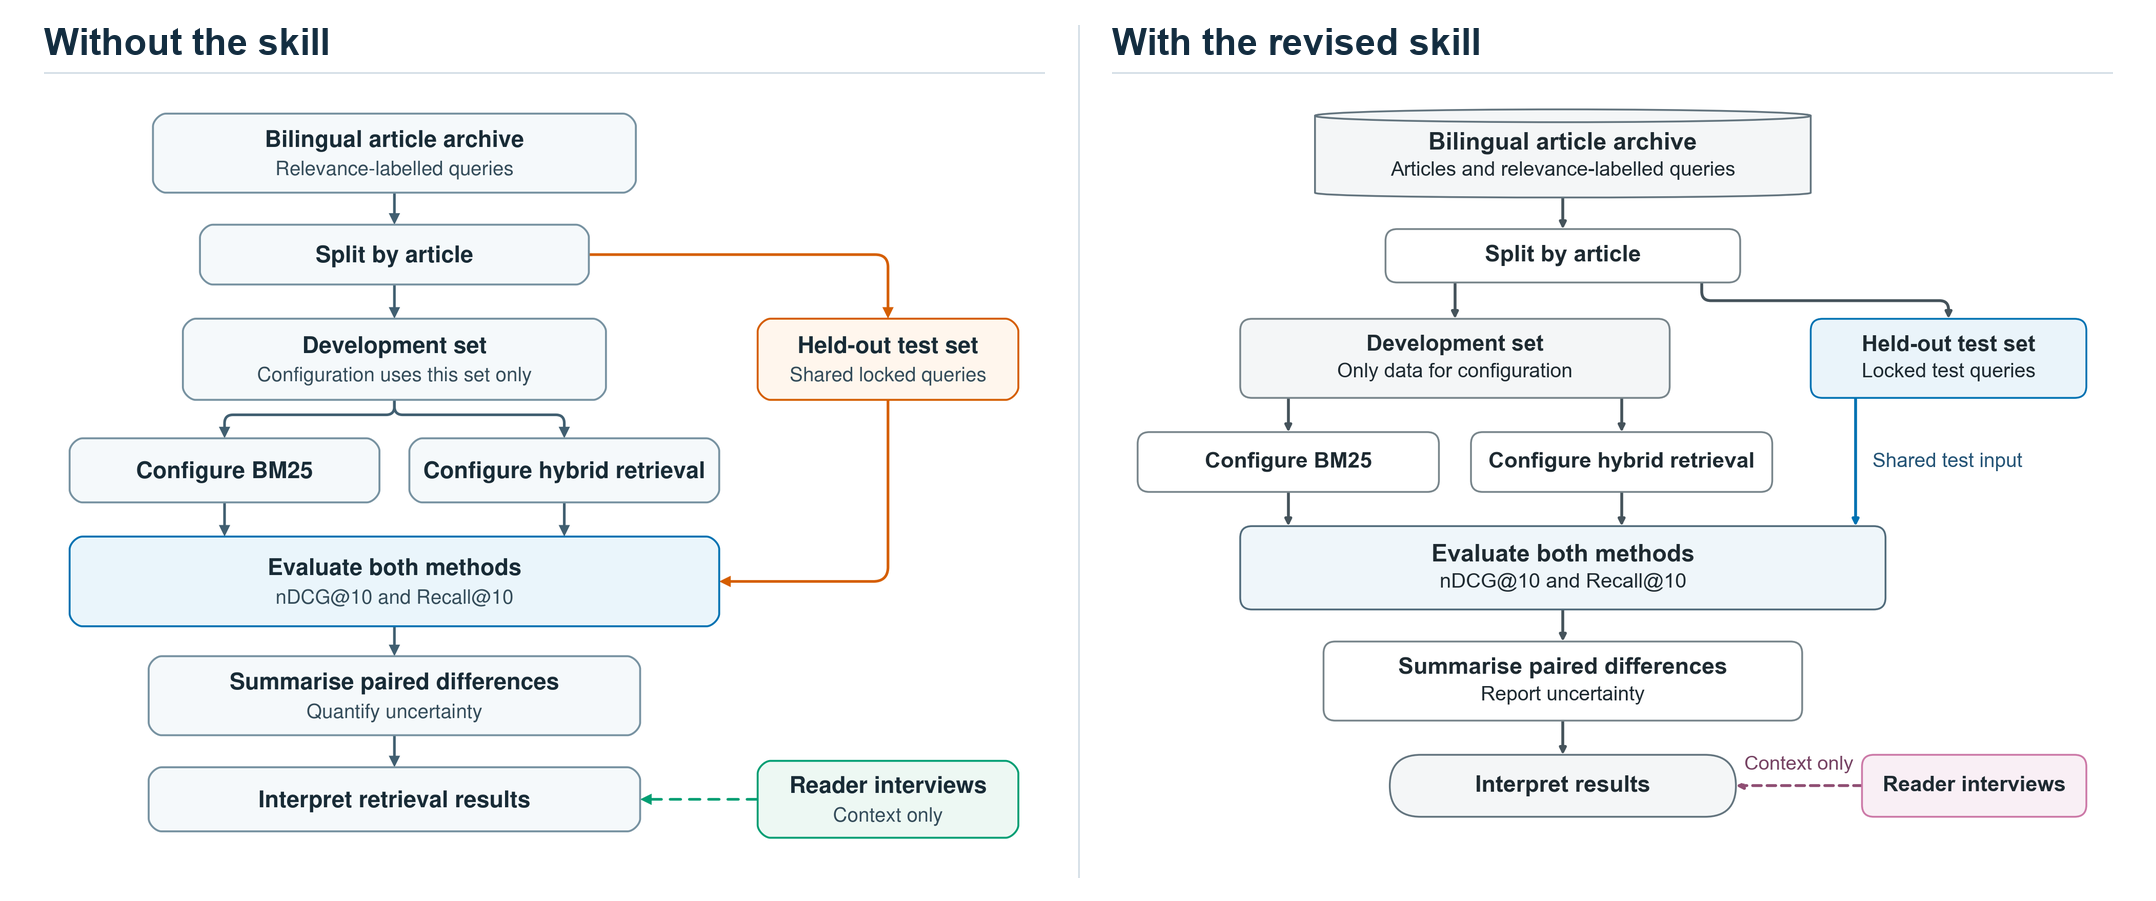
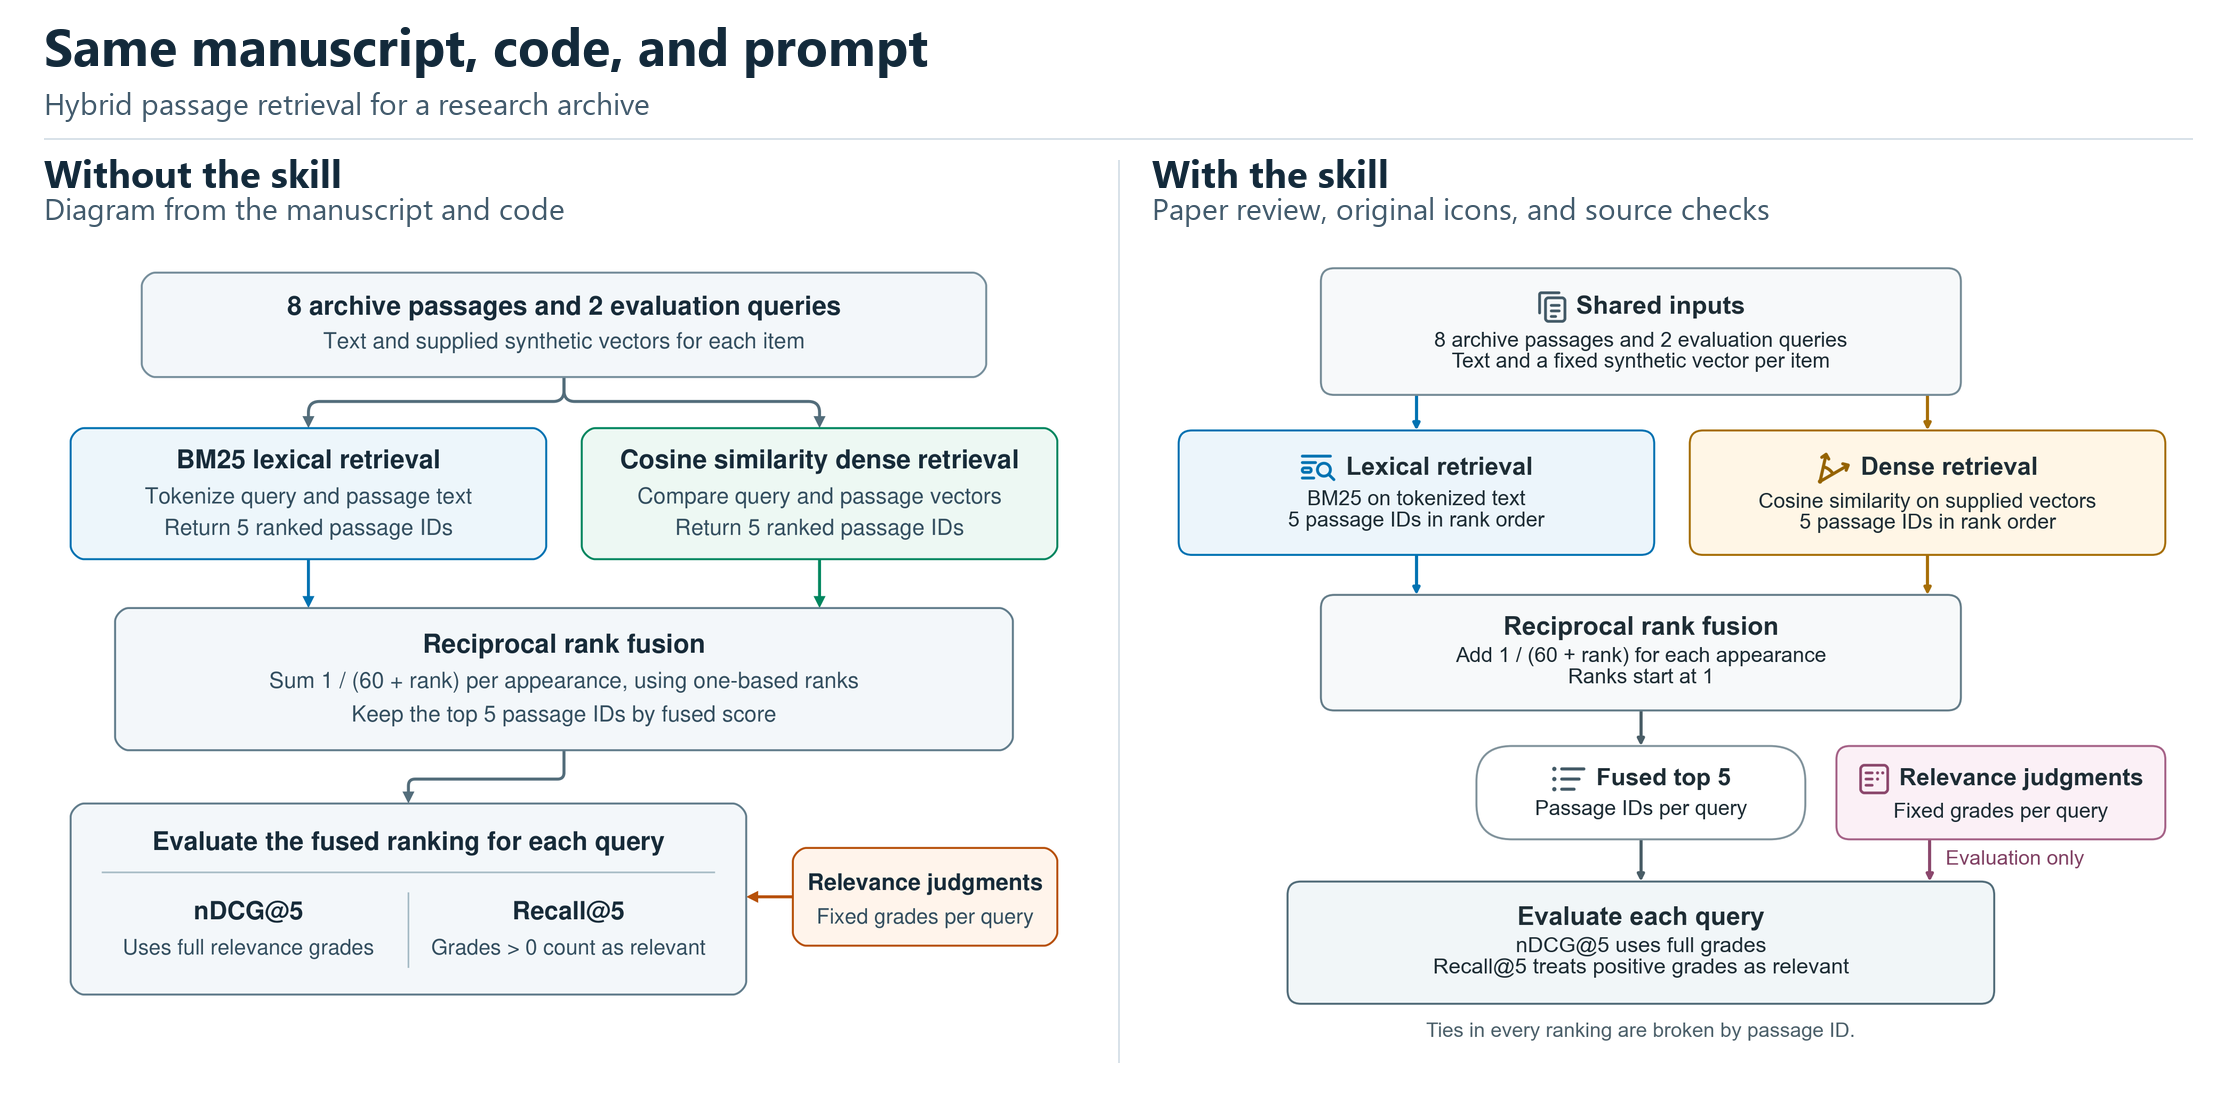
Show a paper-grounded figure from manuscript and code

Changed region(s): [[0.0, 0.0311, 0.4661, 0.9323], [0.4972, 0.0932, 0.9944, 0.9634], [0.4972, 0.0311, 0.6837, 0.0622]]

diff --git a/examples/manuscript-to-figure/retrieval.py b/examples/manuscript-to-figure/retrieval.py
@@ -1,0 +1,102 @@
+"""Run the hybrid retrieval example with Python 3.10+ and no dependencies."""
+
+import json
+import math
+import re
+from collections import Counter
+
+
+TOP_K = 5
+RRF_CONSTANT = 60
+
+# Each record contains passage text and a fixed, synthetic vector.
+PASSAGES = {
+    "p01": ("Cross-validation for small text classification datasets.", (0.8, 0.2, 0.2)),
+    "p02": ("Relevance judgments for ranking scientific articles.", (0.2, 0.9, 0.1)),
+    "p03": ("Sentence vectors for finding relevant research passages.", (0.1, 0.8, 0.3)),
+    "p04": ("Coastal precipitation and river water quality monitoring.", (0.1, 0.1, 0.9)),
+    "p05": ("Pooling documents for search evaluation with graded judgments.", (0.3, 0.9, 0.1)),
+    "p06": ("Sensitivity of greenhouse gas estimates to sample selection.", (0.5, 0.1, 0.8)),
+    "p07": ("Training and validation partitions for time series forecasting.", (0.9, 0.1, 0.2)),
+    "p08": ("Article metadata and author identifiers for digital archives.", (0.1, 0.5, 0.4)),
+}
+
+QUERIES = {
+    "q01": ("judgments for scientific search", (0.2, 1.0, 0.1)),
+    "q02": ("validation for forecasting", (1.0, 0.1, 0.1)),
+}
+
+JUDGMENTS = {"q01": {"p02": 1, "p05": 2, "p03": 1}, "q02": {"p07": 2, "p01": 1}}
+
+
+def terms(text):
+    return re.findall(r"\w+", text.casefold())
+
+
+def ranked_ids(scores):
+    return sorted(scores, key=lambda passage_id: (-scores[passage_id], passage_id))
+
+
+def bm25_ranking(passages, query):
+    counts = {key: Counter(terms(text)) for key, (text, _) in passages.items()}
+    lengths = {key: sum(frequencies.values()) for key, frequencies in counts.items()}
+    mean_length = sum(lengths.values()) / len(lengths)
+    scores = dict.fromkeys(counts, 0.0)
+    k1, b = 1.2, 0.75
+    for term in sorted(set(terms(query))):
+        frequency = sum(term in document for document in counts.values())
+        idf = math.log1p((len(counts) - frequency + 0.5) / (frequency + 0.5))
+        for key, document in counts.items():
+            count = document[term]
+            norm = k1 * (1 - b + b * lengths[key] / mean_length)
+            scores[key] += idf * count * (k1 + 1) / (count + norm)
+    return ranked_ids(scores)[:TOP_K]
+
+
+def cosine(left, right):
+    dot = math.fsum(a * b for a, b in zip(left, right, strict=True))
+    return dot / (math.hypot(*left) * math.hypot(*right))
+
+
+def dense_ranking(passages, query_vector):
+    scores = {key: cosine(query_vector, vector) for key, (_, vector) in passages.items()}
+    return ranked_ids(scores)[:TOP_K]
+
+
+def reciprocal_rank_fusion(*rankings):
+    scores = {}
+    for ranking in rankings:
+        for rank, passage_id in enumerate(ranking, start=1):
+            scores[passage_id] = scores.get(passage_id, 0.0) + 1 / (RRF_CONSTANT + rank)
+    return ranked_ids(scores)[:TOP_K]
+
+
+def retrieve(passages, query, query_vector):
+    lexical = bm25_ranking(passages, query)
+    dense = dense_ranking(passages, query_vector)
+    return reciprocal_rank_fusion(lexical, dense)
+
+
+def evaluate(ranking, judgments):
+    grades = [judgments.get(passage_id, 0) for passage_id in ranking[:TOP_K]]
+    ideal = sorted(judgments.values(), reverse=True)[:TOP_K]
+    relevant = sum(grade > 0 for grade in judgments.values())
+
+    def dcg(values):
+        return sum((2**grade - 1) / math.log2(rank + 2) for rank, grade in enumerate(values))
+
+    return {
+        "nDCG@5": dcg(grades) / dcg(ideal) if relevant else 0.0,
+        "Recall@5": sum(grade > 0 for grade in grades) / relevant if relevant else 0.0,
+    }
+
+
+def main():
+    for query_id, (query, vector) in QUERIES.items():
+        ranking = retrieve(PASSAGES, query, vector)
+        metrics = evaluate(ranking, JUDGMENTS[query_id])
+        print(json.dumps({"query": query_id, "ranking": ranking, **metrics}))
+
+
+if __name__ == "__main__":
+    main()

diff --git a/examples/manuscript-to-figure/figure-review.md b/examples/manuscript-to-figure/figure-review.md
@@ -1,0 +1,28 @@
+# Figure review and method check
+
+The two runs received the same [brief](../../assets/readme/comparison-prompt.txt), [methods draft](manuscript.md) and [Python example](retrieval.py). The baseline used those local inputs. The skill run also examined the related papers below. The Python example uses synthetic fixtures and runs with Python 3.10 or later.
+
+## Published figures reviewed
+
+| Paper and locator | Convention used in the new diagram |
+| --- | --- |
+| [Louis et al. (2025), *Know When to Fuse*, Fig. 1, p. 4293](https://aclanthology.org/2025.coling-main.290.pdf#page=1) | Separate lexical and dense retrieval visually, then converge the two rankings at one fusion step. |
+| [Chen et al. (2024), *M3-Embedding*, Fig. 2, p. 2321](https://aclanthology.org/2024.findings-acl.137.pdf#page=4) | Distinguish terms and vectors with small, recognisable representation marks. |
+| [Litschko et al. (2022), *Parameter-Efficient Neural Reranking*, Fig. 1, p. 1073](https://aclanthology.org/2022.coling-1.90.pdf#page=3) | Make the ranked IDs visible as a data product passed between stages. |
+
+The full-text PDFs and figure captions were inspected. The papers informed layout and symbols. The supplied draft and code determined the method shown.
+
+## Method trace
+
+| What the figure represents | Where to check it |
+| --- | --- |
+| Both retrieval paths use the same passage collection and query. Text feeds BM25 and the supplied vectors feed cosine ranking. | Methods §1–2 and `PASSAGES`, `QUERIES`, `bm25_ranking`, `dense_ranking`, `retrieve`. |
+| Each branch sends its five highest-ranked IDs to reciprocal rank fusion. The fusion uses one-based ranks and keeps the top five IDs. Ties are broken by passage ID. | Methods §2–3 and `TOP_K`, `ranked_ids`, `RRF_CONSTANT`, `reciprocal_rank_fusion`. |
+| The fused ranking and fixed relevance judgments meet at evaluation. The judgments flow only to the evaluator. | Methods §4 and `main`, where `JUDGMENTS` is passed to `evaluate` after `retrieve` completes. |
+| The evaluator reports nDCG@5 from the grades and Recall@5 from positive grades. | Methods §4 and `evaluate`. |
+
+The code ran on both example queries. Changing the fixed judgments changed the evaluation scores and left the rankings identical.
+
+## Icons and export checks
+
+Five original symbols identify the shared archive, lexical and dense retrieval, the fused ranking and the relevance grades. Placing the icons beside the titles kept the explanations centred. The skill export passed geometry checks, and all seven nodes and seven arrows were traced to the draft and implementation. Both panels were inspected at a 6.5-inch print width and placed side by side at the same scale.

diff --git a/examples/manuscript-to-figure/manuscript.md b/examples/manuscript-to-figure/manuscript.md
@@ -1,0 +1,27 @@
+# Hybrid passage retrieval for a research archive
+
+## Abstract
+
+This worked example demonstrates how a keyword ranking and a vector ranking can be combined to retrieve passages from a research archive. A fixed collection, two queries and their relevance grades make the workflow runnable with only the Python standard library. The example illustrates the method and the role of relevance judgments in evaluation.
+
+## Methods
+
+### 1. Passages and queries
+
+The demonstration provides eight short passages and two evaluation queries. Each passage and query has text and a fixed synthetic vector. Both retrieval branches use the same passage collection and query. The vectors are supplied with the example.
+
+### 2. Parallel retrieval
+
+The lexical branch tokenizes the text and ranks passages by BM25. The dense branch ranks the supplied vectors by cosine similarity. Each branch returns five passage IDs in rank order. Ties are resolved by passage ID.
+
+### 3. Rank fusion
+
+Reciprocal rank fusion adds a contribution of `1 / (60 + rank)` for each appearance in the two input lists, using one-based ranks. The fused output keeps the five best-scoring passage IDs.
+
+### 4. Evaluation
+
+The evaluator compares the fused list for each query with its fixed graded relevance judgments. Grades enter only at this stage and have no effect on retrieval or fusion. nDCG@5 uses the full grades, and Recall@5 treats every positive grade as relevant.
+
+## Scope
+
+The passages, vectors and judgments are illustrative fixtures. Metrics on this small example demonstrate the evaluation calculation. The design makes no claim about retrieval performance on a broader research archive.

diff --git a/README.md b/README.md
@@ -10,9 +10,13 @@ This local workflow runs with Python and free libraries. The final files include
 
 ## Same prompt, two agent runs
 
-[![Two workflows from the same prompt, made without the skill on the left and with the revised skill on the right.](assets/readme/same-prompt-comparison.png)](assets/readme/same-prompt-comparison.png)
+An agent wrote a small hybrid retrieval experiment and its methods draft. Two runs used the same files and figure brief.
 
-Both panels used the same model and prompt. The left is the original baseline and the right was generated after updating the skill. Open the image for the full-size comparison. [Read the shared prompt](assets/readme/comparison-prompt.txt).
+[![Hybrid retrieval diagrams made from the same manuscript, code and prompt. The skill version uses original icons, distinct retrieval lanes and a separate path for relevance judgments.](assets/readme/same-prompt-comparison.png)](assets/readme/same-prompt-comparison.png)
+
+The baseline drew from the manuscript and code. The skill run also inspected figures from three published papers, drew five original icons and checked each step and arrow against the implementation. Open the image for the full-size comparison.
+
+[Shared prompt](assets/readme/comparison-prompt.txt) · [Manuscript](examples/manuscript-to-figure/manuscript.md) · [Runnable code](examples/manuscript-to-figure/retrieval.py) · [Figure review](examples/manuscript-to-figure/figure-review.md)
 
 ## Why use it?
 
